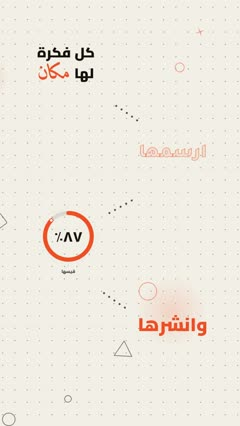
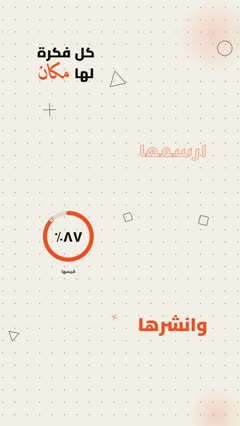
One space: drop the route breadcrumbs; the world between stops stays clean

diff --git a/engine/src/runtime/primitives/space.ts b/engine/src/runtime/primitives/space.ts
@@ -1,4 +1,3 @@
-import { easeOutBack, easeOutCubic, seg } from '../../core/ease'
 import { spaceFieldParams, type SpaceFieldParams } from '../../core/params/space'
 import type { Primitive } from './registry'
 
@@ -13,16 +12,7 @@ const el = <K extends keyof SVGElementTagNameMap>(tag: K, attrs: Record<string, 
 }
 let uid = 0
 
-/** Leg i of a smooth path through points (Catmull-Rom as one cubic Bézier). */
-function leg(pts: { x: number; y: number }[], i: number): string {
-  const p0 = pts[Math.max(0, i - 1)]!
-  const p1 = pts[i]!
-  const p2 = pts[i + 1]!
-  const p3 = pts[Math.min(pts.length - 1, i + 2)]!
-  return `M${f1(p1.x)},${f1(p1.y)} C${f1(p1.x + (p2.x - p0.x) / 6)},${f1(p1.y + (p2.y - p0.y) / 6)} ${f1(p2.x - (p3.x - p1.x) / 6)},${f1(p2.y - (p3.y - p1.y) / 6)} ${f1(p2.x)},${f1(p2.y)}`
-}
-
-/** space-field: one vector layer of the one-space world (dots, grid, stars, shapes, bokeh or the route). */
+/** space-field: one vector layer of the one-space world (dots, grid, stars, shapes or bokeh). */
 export const spaceField: Primitive<SpaceFieldParams> = {
   id: 'space-field',
   params: spaceFieldParams,
@@ -44,7 +34,6 @@ export const spaceField: Primitive<SpaceFieldParams> = {
     const Y = () => -h / 2 + R() * 2 * h
     const twinkles: { e: SVGElement; ph: number; sp: number; base: number }[] = []
     const spins: { e: SVGElement; x: number; y: number; ph: number; sp: number; bob: number }[] = []
-    let routeUpdate: ((t: number) => void) | null = null
 
     if (p.kind === 'dots' || p.kind === 'grid') {
       const cell = (p.kind === 'dots' ? 54 : 108) * k / Math.sqrt(p.density)
@@ -98,46 +87,6 @@ export const spaceField: Primitive<SpaceFieldParams> = {
         svg.append(g)
         spins.push({ e: g, x: X(), y: Y(), ph: R() * 6.28, sp: 0, bob: (10 + R() * 26) * k })
       }
-    } else if (p.kind === 'route' && p.stops.length > 0) {
-      const pts = p.stops.map((s) => ({ x: s.x * w, y: s.y * h }))
-      // Breadcrumbs: one dot every `gap` px along each leg, popping in as the leg is flown.
-      const crumbs: { e: SVGCircleElement; leg: number; u: number }[] = []
-      for (let i = 0; i + 1 < pts.length; i++) {
-        const path = el('path', { d: leg(pts, i), fill: 'none' })
-        svg.append(path)
-        const L = path.getTotalLength()
-        const gap = 26 * k
-        const n = Math.max(2, Math.floor(L / gap))
-        for (let j = 1; j < n; j++) {
-          const q = path.getPointAtLength((j / n) * L)
-          if (pts.some((s) => Math.hypot(s.x - q.x, s.y - q.y) < p.clear * w)) continue
-          const c = el('circle', { cx: f1(q.x), cy: f1(q.y), r: f2(4.2 * k), fill: fg })
-          svg.append(c)
-          crumbs.push({ e: c, leg: i, u: j / n })
-        }
-      }
-      const nodes = pts.map((q, i) => {
-        const g = el('g', { transform: `translate(${f1(q.x)},${f1(q.y)})` })
-        const pulse = el('circle', { r: f2(p.clear * w), fill: 'none', stroke: accent, 'stroke-width': f2(4 * k) })
-        g.append(pulse)
-        svg.append(g)
-        return { pulse, at: p.stops[i]!.at }
-      })
-      routeUpdate = (t) => {
-        for (const c of crumbs) {
-          const a = p.stops[c.leg + 1]!.at
-          const start = Math.max(p.stops[c.leg]!.at, a - p.travel)
-          const lit = seg(t, start + (a - start) * c.u * 0.92, start + (a - start) * c.u * 0.92 + 0.12)
-          c.e.setAttribute('r', f2(4.2 * k * Math.max(0, easeOutBack(lit))))
-          c.e.style.opacity = f3(0.35 + 0.45 * lit)
-        }
-        for (const n of nodes) {
-          // A ripple out from the stop's clear zone as the camera lands.
-          const pu = seg(t, n.at - 0.05, n.at + 0.85)
-          n.pulse.setAttribute('r', f2(p.clear * w * (1 + 0.9 * easeOutCubic(pu))))
-          n.pulse.style.opacity = f3(pu > 0 && pu < 1 ? 0.7 * (1 - pu) : 0)
-        }
-      }
     }
 
     return {
@@ -149,7 +98,6 @@ export const spaceField: Primitive<SpaceFieldParams> = {
           const dx = Math.cos(t * 0.5 + s.ph) * s.bob * 0.6
           s.e.setAttribute('transform', `translate(${f1(s.x + dx)},${f1(s.y + dy)}) rotate(${f1(s.ph + s.sp * t)})`)
         }
-        routeUpdate?.(t)
       },
     }
   },

diff --git a/engine/src/core/catalog.ts b/engine/src/core/catalog.ts
@@ -86,7 +86,7 @@ export const CATALOG: CatalogEntry[] = [
   { id: 'zoom-callout', group: 'person', ar: 'عدسة تكبير', does: 'دائرة على تفصيلة بالمقطع، خطين، وعدسة تطلع تكبّرها ويا عنوان', ask: 'كبّر «…» بعدسة واكتب «…»' },
   { id: 'video', group: 'person', ar: 'مقطع فيديو', does: 'مقطعك كما هو، مع زوم أو كتم الصوت', ask: 'حط مقطعي هنا، وكتّم صوته' },
   // Transitions
-  { id: 'space-field', group: 'transitions', ar: 'مساحة واحدة', does: 'كل الأفكار بمساحة وحدة: الكاميرا تطير من فكرة لفكرة وكل وحدة تبدأ حركتها لما توصل، طبقات بارالاكس، مسار نقاط، وبالنهاية ترجع تشوف المساحة كلها', ask: 'خلّ الفيديو مساحة وحدة والكاميرا تتنقّل بين الأفكار', img: 'one-space', use: 'scenes with `"place": {x, y, scale}` + `"camera": {"tour": {}}` + `space-field` layers — copy engine/examples/one-space.json' },
+  { id: 'space-field', group: 'transitions', ar: 'مساحة واحدة', does: 'كل الأفكار بمساحة وحدة: الكاميرا تطير من فكرة لفكرة وكل وحدة تبدأ حركتها لما توصل، طبقات بارالاكس، وبالنهاية ترجع تشوف المساحة كلها', ask: 'خلّ الفيديو مساحة وحدة والكاميرا تتنقّل بين الأفكار', img: 'one-space', use: 'scenes with `"place": {x, y, scale}` + `"camera": {"tour": {}}` + `space-field` layers — copy engine/examples/one-space.json' },
   { id: 'transition:paper-tear', group: 'transitions', ar: 'تمزيق ورق', does: 'اللقطة نفسها تتمزّق بحواف ورق حقيقية', ask: 'انتقل بتمزيق ورق', img: 'paper-tear' },
   { id: 'transition:page-turn', group: 'transitions', ar: 'قلب صفحة', does: 'صفحة تنقلب مثل كتاب عربي', ask: 'انتقل بقلب صفحة', img: 'page-turn' },
   { id: 'transition:blade-slice', group: 'transitions', ar: 'قصّ بالشفرة', does: 'شفرة تقصّ المشهد ونصّه يزحلق', ask: 'انتقل بقصّة شفرة' },

diff --git a/engine/src/core/params/space.ts b/engine/src/core/params/space.ts
@@ -4,30 +4,19 @@ import type { Cue } from '../audio-plan'
 /**
  * space-field — one layer of the one-space world, drawn in vectors over twice the frame (so pulls
  * back and parallax never show an edge). Stack two or three with scene `depth` for parallax: a far
- * dot grid and stars (depth 0.3–0.5), the route between the stops (depth 1, the stops' own plane),
- * and near soft bokeh (depth 1.5–2) that rushes past.
+ * dot grid or stars (depth 0.3–0.5), floating shapes (depth 0.7–1) and near soft bokeh (depth
+ * 1.5–2) that rushes past.
  */
 
-const frac = z.number().min(-0.5).max(1.5)
 
 export const spaceFieldParams = z.object({
-  kind: z.enum(['dots', 'grid', 'stars', 'shapes', 'bokeh', 'route']).default('dots'),
+  kind: z.enum(['dots', 'grid', 'stars', 'shapes', 'bokeh']).default('dots'),
   /** How many things (1 = the default amount). */
   density: z.number().min(0.2).max(3).default(1),
   tint: z.enum(['fg', 'accent', 'mix']).default('fg'),
   /** Overall strength. */
   alpha: z.number().min(0.05).max(1).default(0.5),
-  /**
-   * `route`: the path between the stops — the stops' places (x, y) and the times the camera lands
-   * (`at`, scene seconds). Breadcrumb dots pop in along each leg as the camera flies it (none
-   * within `clear` of a stop); a ring ripples out from each stop as the camera lands.
-   */
-  stops: z.array(z.object({ x: frac, y: frac, at: z.number().min(0) })).max(12).default([]),
-  /** Seconds each leg of the route takes to draw (ending at the next stop's `at`). */
-  travel: z.number().min(0.2).max(4).default(1.1),
-  /** Around each stop the route stays clear (fraction of the width), so it never runs under the stop's text. */
-  clear: z.number().min(0.03).max(0.4).default(0.16),
 })
 export type SpaceFieldParams = z.infer<typeof spaceFieldParams>
 
-export const cuesOfSpaceField = (p: SpaceFieldParams): Cue[] => (p.kind === 'route' ? p.stops.slice(1).map((s) => ({ t: s.at, kind: 'whoosh' as const })) : [])
+export const cuesOfSpaceField = (): Cue[] => []

diff --git a/engine/tests/unit/space.test.ts b/engine/tests/unit/space.test.ts
@@ -47,7 +47,7 @@ describe('one-space tour', () => {
   })
   it('space-field params', () => {
     expect(spaceFieldParams.parse({}).kind).toBe('dots')
-    expect(spaceFieldParams.parse({ kind: 'route', stops: [{ x: 0.3, y: 0.2, at: 0 }] }).clear).toBe(0.16)
+    expect(spaceFieldParams.safeParse({ kind: 'route' }).success).toBe(false)
     expect(spaceFieldParams.safeParse({ kind: 'nebula' }).success).toBe(false)
   })
 })

diff --git a/skill/motion-bilarabi/SKILL.md b/skill/motion-bilarabi/SKILL.md
@@ -135,7 +135,7 @@ there, ask where they put it. Its `README.md` is the install guide.
 Every idea lives in one world; the camera flies from one to the next and each one's animation starts as the camera lands. Start from `engine/examples/one-space.json`.
 - A stop = any scene with `"place": {"x", "y", "scale"}` (its centre in the world, frame fractions; `scale` 0.34 = a third of the frame, so the camera zooms ×3 to fill the screen). Stops on tracks 1–4 (0 and 5 are fixed). Keep stops apart (centres ≥ `scale` apart) so they never overlap; a zigzag down the frame reads well.
 - `"camera": {"tour": {"travel": 1.1, "lift": 0.35}, "handheld": {"amp": 0.6}}` makes the camera keys: it holds on each stop, leaves `travel` s before the next stop's `start`, pulls back by `lift` mid-flight (the space shows), and lands exactly at that `start`. Give stop scenes durations that run to the end, so earlier stops stay in the world.
-- Parallax with `space-field` layers (`kind: dots|grid|stars|shapes|bokeh|route`, `density`, `tint: fg|accent|mix`, `alpha`): a far `dots` or `stars` layer at `depth` 0.3–0.5, a `route` at depth 1 (`stops[{x, y, at}]` = the stops' places and starts, `travel` = the tour's, `clear` keeps the dots off each stop's text) and near `bokeh` (accent) at depth 1.5–2.
+- Parallax with `space-field` layers (`kind: dots|grid|stars|shapes|bokeh`, `density`, `tint: fg|accent|mix`, `alpha`): a far `dots` or `stars` layer at `depth` 0.3–0.5 and near `bokeh` (accent) at depth 1.5–2. Keep the world clean: nothing between the stops but these layers.
 - End on an overview: a last placed scene with `scale` ≈ 0.9 at the centre (e.g. `space-field` `shapes`), so the camera pulls out and shows the whole space. Add `"motionBlur": {"samples": 3, "shutter": 180}` for the flights.
 
 ## Laser pack (dark cinematic tech look)

diff --git a/EFFECTS.md b/EFFECTS.md
@@ -100,7 +100,7 @@
 
 | | المؤثر | شنو يسوي | قول لـ Claude |
 |---|---|---|---|
-| <img src="media/effects/one-space.jpg" width="96"> | **مساحة واحدة**<br><sub>`space-field`</sub> | كل الأفكار بمساحة وحدة: الكاميرا تطير من فكرة لفكرة وكل وحدة تبدأ حركتها لما توصل، طبقات بارالاكس، مسار نقاط، وبالنهاية ترجع تشوف المساحة كلها | «خلّ الفيديو مساحة وحدة والكاميرا تتنقّل بين الأفكار» |
+| <img src="media/effects/one-space.jpg" width="96"> | **مساحة واحدة**<br><sub>`space-field`</sub> | كل الأفكار بمساحة وحدة: الكاميرا تطير من فكرة لفكرة وكل وحدة تبدأ حركتها لما توصل، طبقات بارالاكس، وبالنهاية ترجع تشوف المساحة كلها | «خلّ الفيديو مساحة وحدة والكاميرا تتنقّل بين الأفكار» |
 | <img src="media/effects/paper-tear.jpg" width="96"> | **تمزيق ورق**<br><sub>`transition:paper-tear`</sub> | اللقطة نفسها تتمزّق بحواف ورق حقيقية | «انتقل بتمزيق ورق» |
 | <img src="media/effects/page-turn.jpg" width="96"> | **قلب صفحة**<br><sub>`transition:page-turn`</sub> | صفحة تنقلب مثل كتاب عربي | «انتقل بقلب صفحة» |
 |  | **قصّ بالشفرة**<br><sub>`transition:blade-slice`</sub> | شفرة تقصّ المشهد ونصّه يزحلق | «انتقل بقصّة شفرة» |
